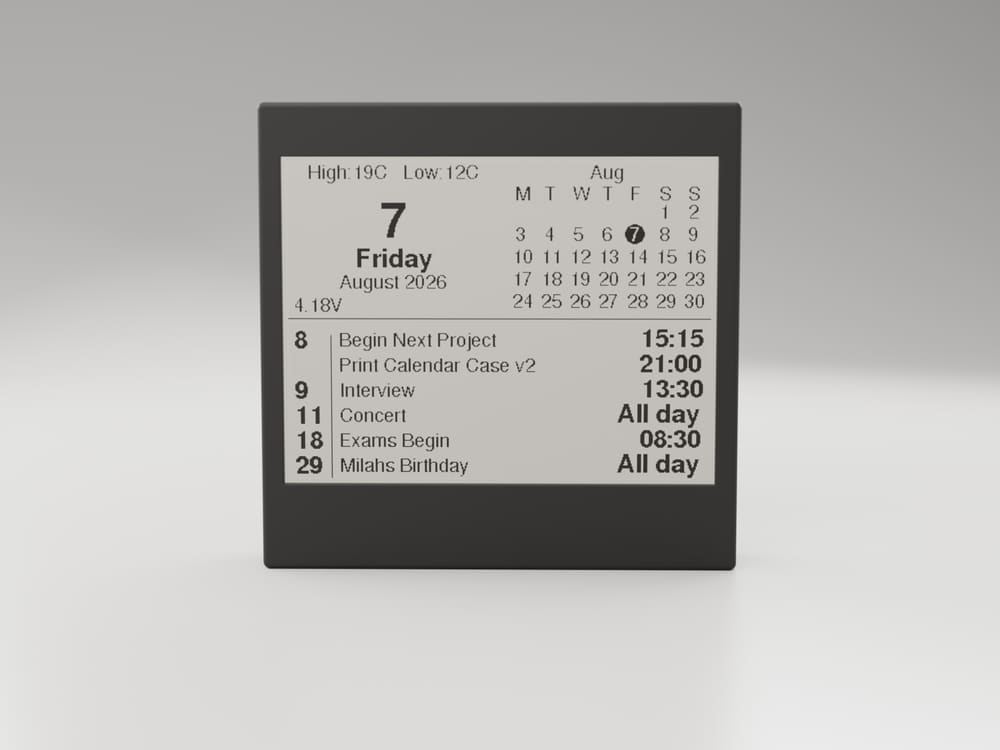
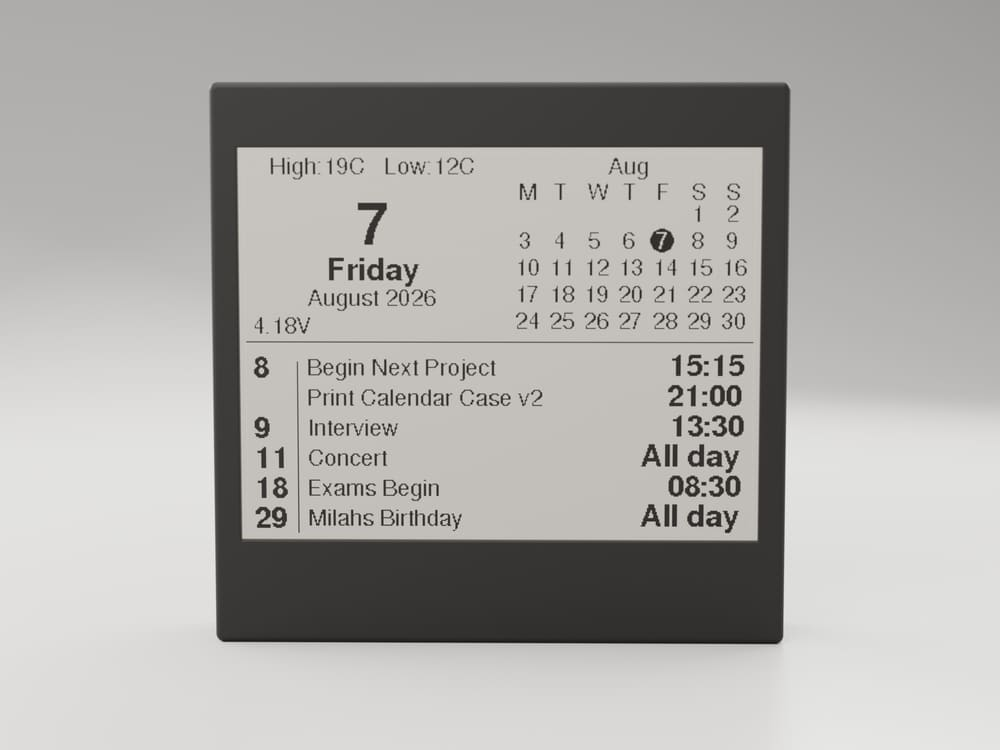
.

Changed region(s): [[0.186, 0.092, 1.0, 0.8893]]

diff --git a/src/content/projects/eink-calendar.md b/src/content/projects/eink-calendar.md
@@ -12,6 +12,8 @@ gallery:
   - "/images/projects/eink-calendar/3.jpg"
   - "/images/projects/eink-calendar/4.jpg"
   - "/images/projects/eink-calendar/5.jpg"
+  - "/images/projects/eink-calendar/6.jpg"
+  - "/images/projects/eink-calendar/7.jpg"
 waitlist: true
 cardBanner: "Join the waitlist now"
 waitlistLabel: "Want one for yourself? Join the waitlist and I'll email you when it's ready."
